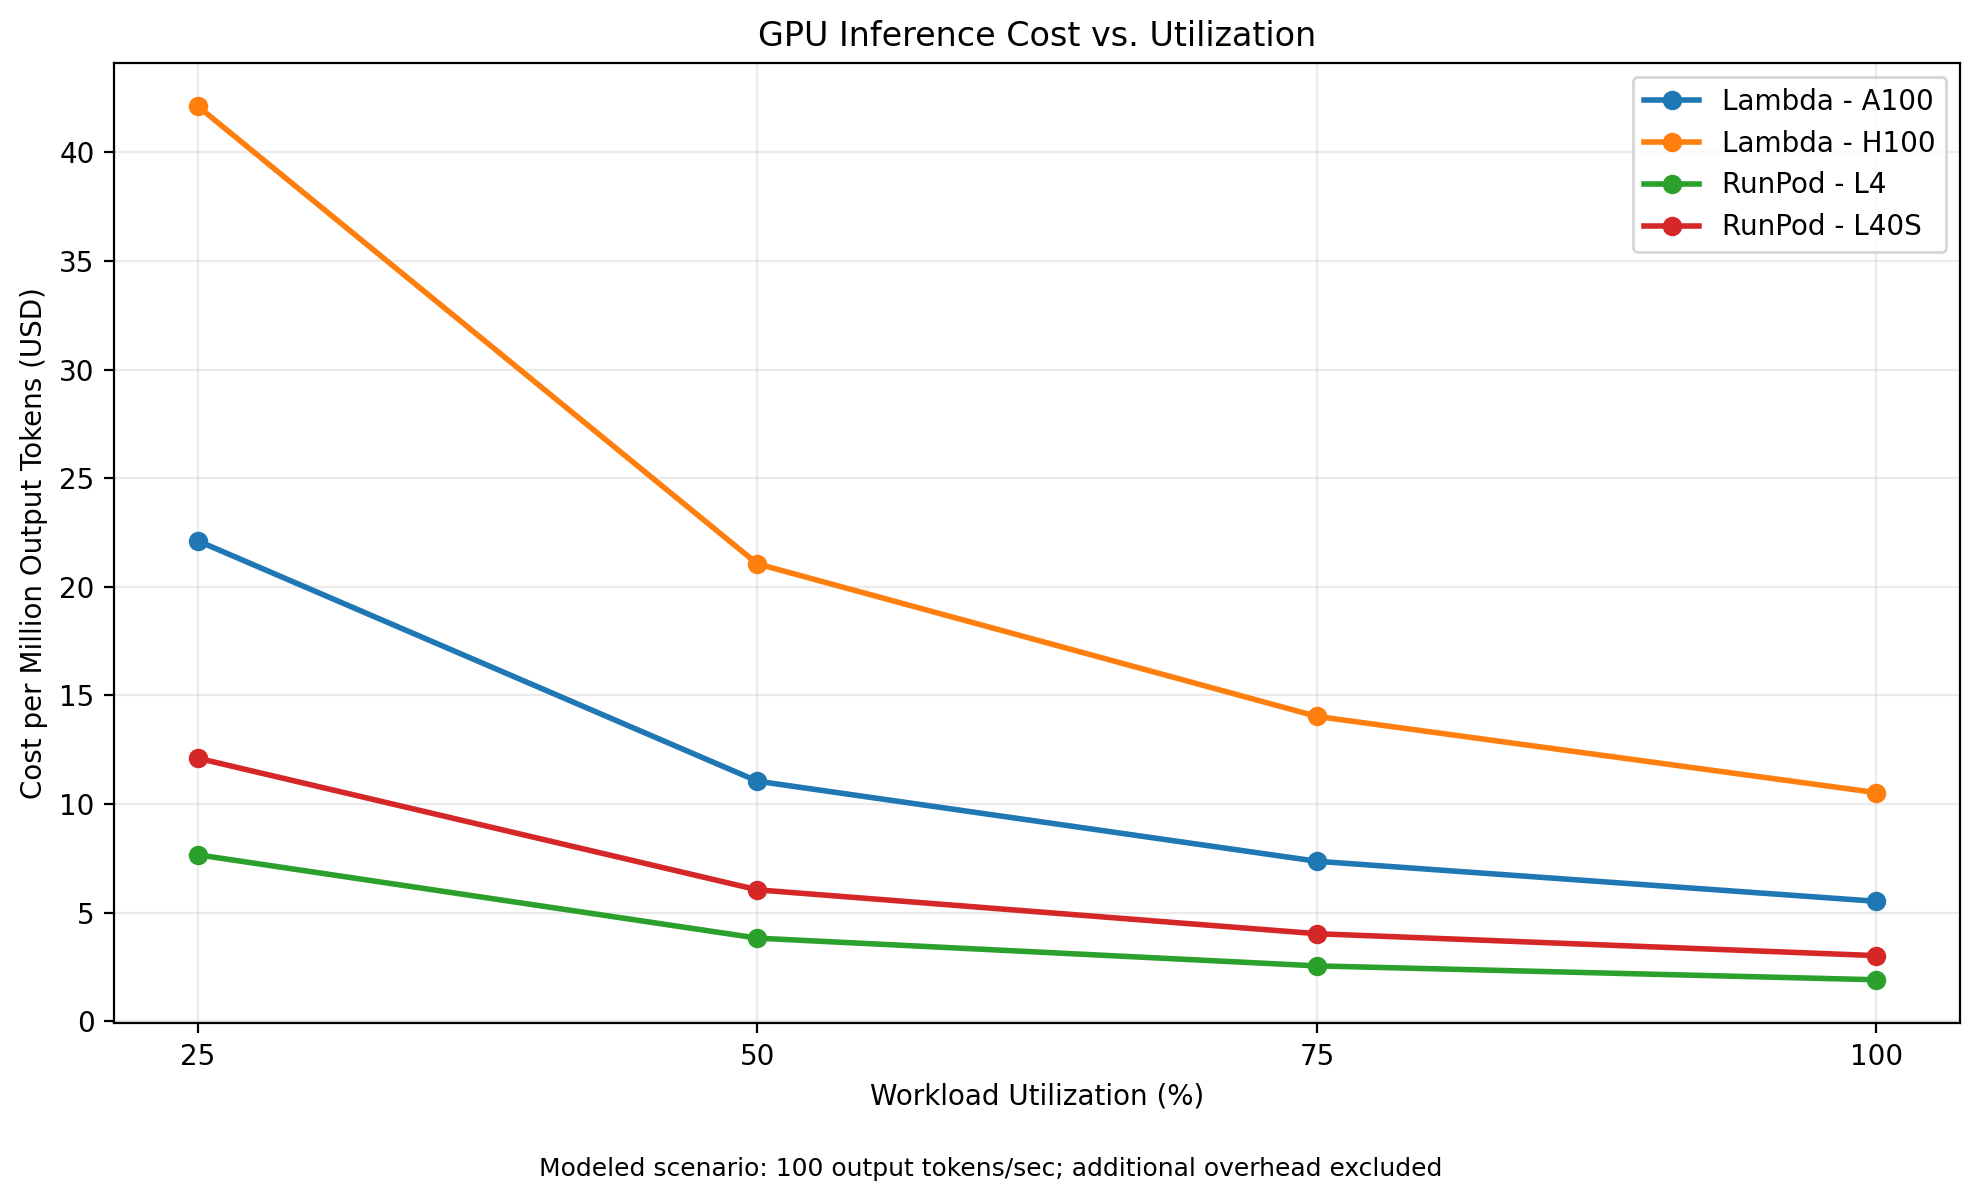
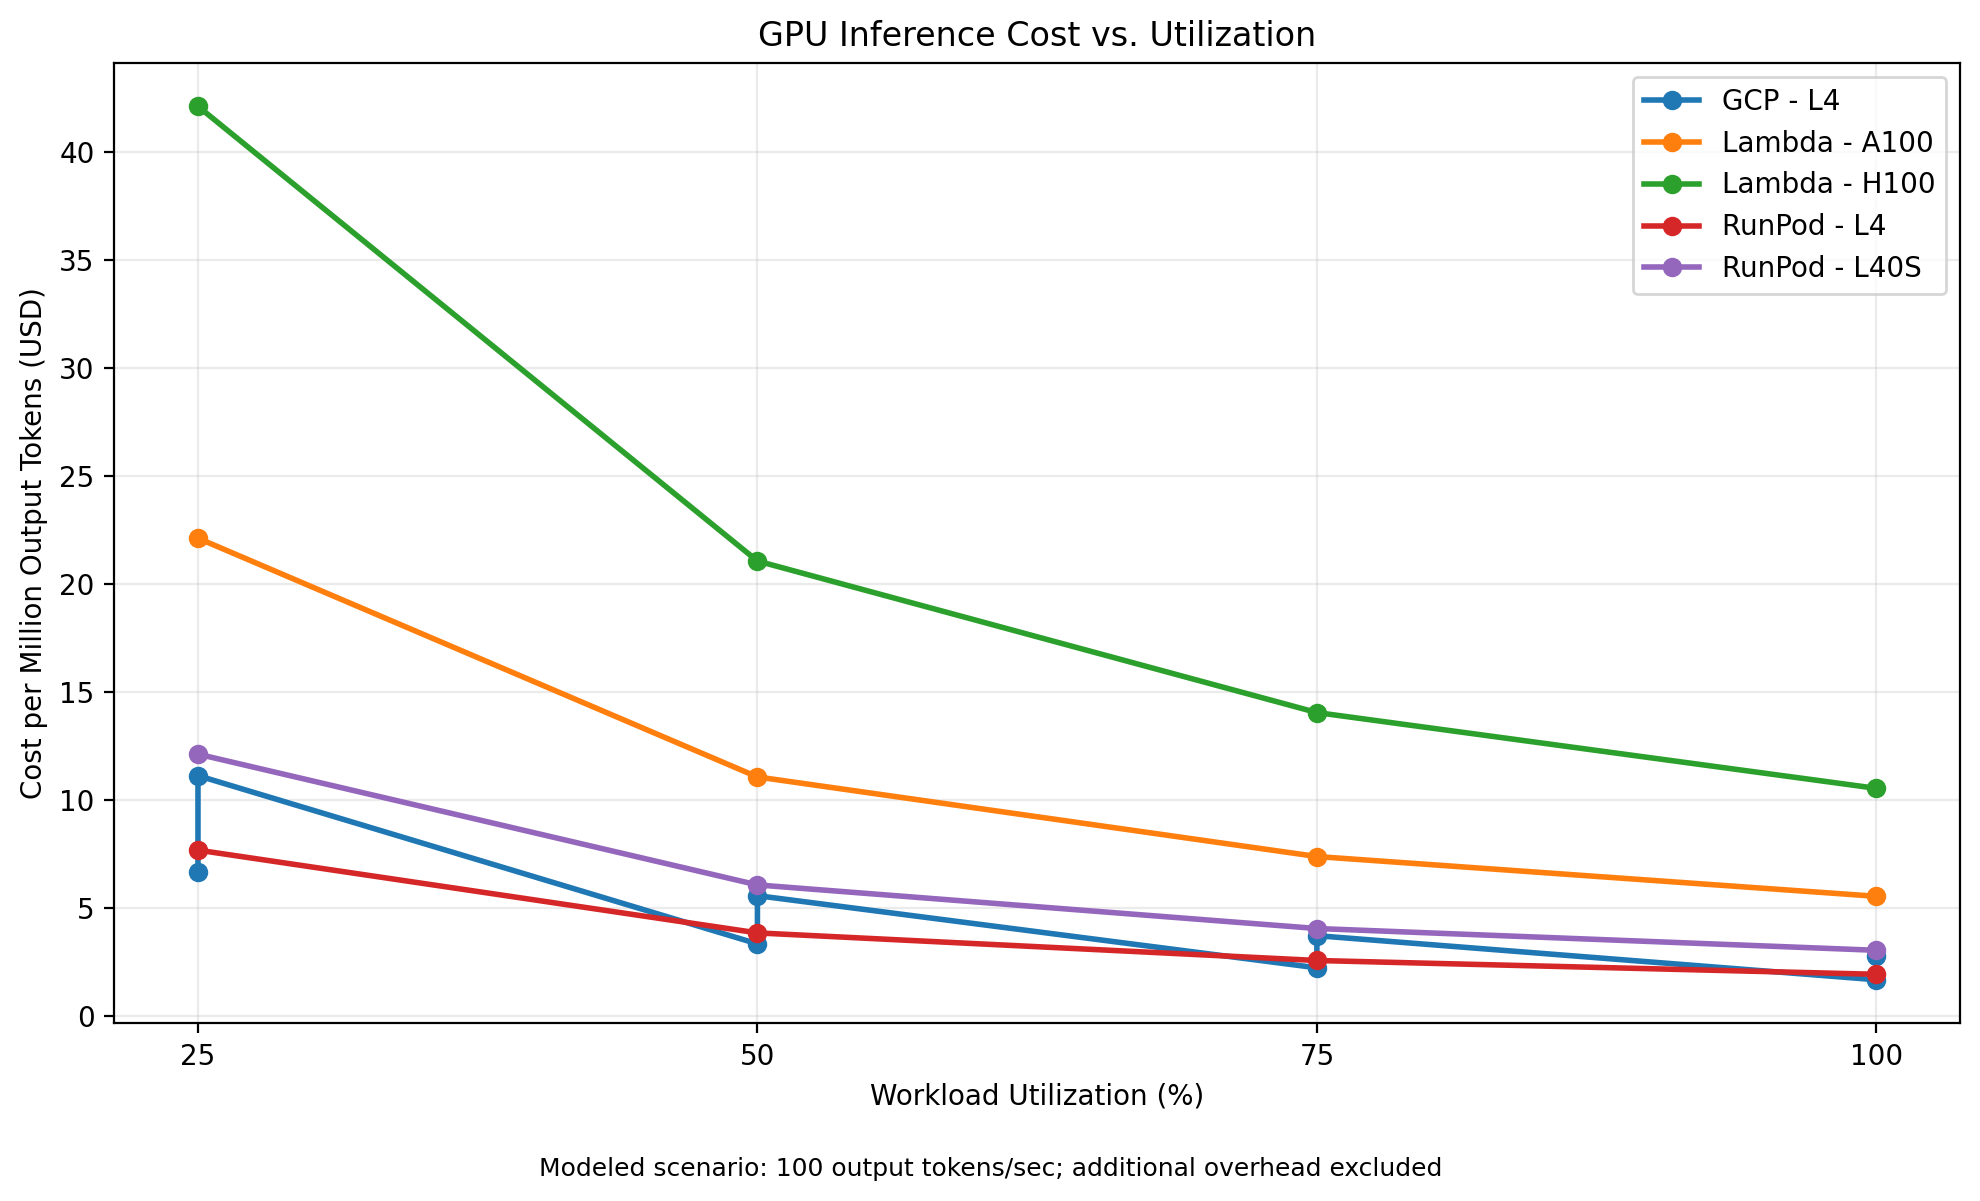
feat: finalize multi-cloud GPU cost benchmarking and integration validation

diff --git a/tests/test_integration.py b/tests/test_integration.py
@@ -1,0 +1,50 @@
+import json
+from http.server import BaseHTTPRequestHandler, HTTPServer
+from threading import Thread
+
+from benchmarks.scripts.benchmark import run_benchmark
+
+
+class InferenceHandler(BaseHTTPRequestHandler):
+
+    def do_POST(self):
+        length = int(self.headers["Content-Length"])
+        payload = json.loads(self.rfile.read(length))
+
+        assert self.path == "/v1/completions"
+
+        response = json.dumps({
+            "usage": {
+                "prompt_tokens": 512,
+                "completion_tokens": payload["max_tokens"]
+            }
+        }).encode()
+
+        self.send_response(200)
+        self.send_header("Content-Type", "application/json")
+        self.send_header("Content-Length", str(len(response)))
+        self.end_headers()
+        self.wfile.write(response)
+
+
+def test_http_integration():
+    server = HTTPServer(("127.0.0.1", 0), InferenceHandler)
+    thread = Thread(target=server.serve_forever, daemon=True)
+    thread.start()
+
+    try:
+        result = run_benchmark(
+            f"http://127.0.0.1:{server.server_port}",
+            "simulated-model",
+            "Integration test",
+            256, 2, 4
+        )
+
+        assert result["requests"] == 4
+        assert result["total_output_tokens"] == 1024
+        assert result["output_tokens_per_second"] > 0
+
+    finally:
+        server.shutdown()
+        thread.join()
+        server.server_close()

diff --git a/results/provider-comparison.md b/results/provider-comparison.md
@@ -6,7 +6,9 @@ Modeled workload: 100 output tokens/sec, 50% utilization, excluding additional o
 
 | Provider | GPU | USD/hour | USD/M tokens | Monthly USD |
 |---|---|---:|---:|---:|
+| GCP | L4 | 0.60 | 3.33 | 437.01 |
 | RunPod | L4 | 0.69 | 3.83 | 503.70 |
+| GCP | L4 | 1.00 | 5.56 | 730.30 |
 | RunPod | L40S | 1.09 | 6.06 | 795.70 |
 | Lambda | A100 | 1.99 | 11.06 | 1452.70 |
 | Lambda | H100 | 3.79 | 21.06 | 2766.70 |

diff --git a/README.md b/README.md
@@ -56,10 +56,10 @@ separately to ensure accuracy and reproducibility.
 
 | Validation | Result |
 |---|---:|
-| Automated Tests | 21 passed |
-| Dedicated GPU Scenarios | 216 |
-| Serverless Scenarios | 108 |
-| Utilization Scenarios | 16 |
+| Automated Tests | 22 passed |
+| Dedicated GPU Scenarios | 288 |
+| Serverless Scenarios | 144 |
+| Utilization Scenarios | 24 |
 | Live GPU Benchmark | Pending |
 
 ## Reproduce

diff --git a/docs/methodology.md b/docs/methodology.md
@@ -32,10 +32,10 @@ Generated tokens
 
 ## Validation
 
-- 21 automated tests.
-- 216 dedicated GPU cost scenarios.
-- 108 serverless cost scenarios.
-- 16 utilization sensitivity scenarios.
+- 22 automated tests.
+- 288 dedicated GPU cost scenarios.
+- 144 serverless cost scenarios.
+- 24 utilization sensitivity scenarios.
 - Docker and Kubernetes configuration checks.
 
 ## Limitations

diff --git a/docs/pricing-sources.md b/docs/pricing-sources.md
@@ -1,0 +1,10 @@
+
+## Pricing Revision - 2026-11-17
+
+- GCP Iowa on-demand: $1.000416348/hour.
+- GCP Iowa Spot: $0.598648/hour.
+- RunPod 48GB PRO serverless: $1.89/hour.
+- GCP source:
+  https://cloud.google.com/products/compute/pricing/accelerator-optimized
+- AWS regional rates remain provisional.
+- Spot rates are subject to market changes.
